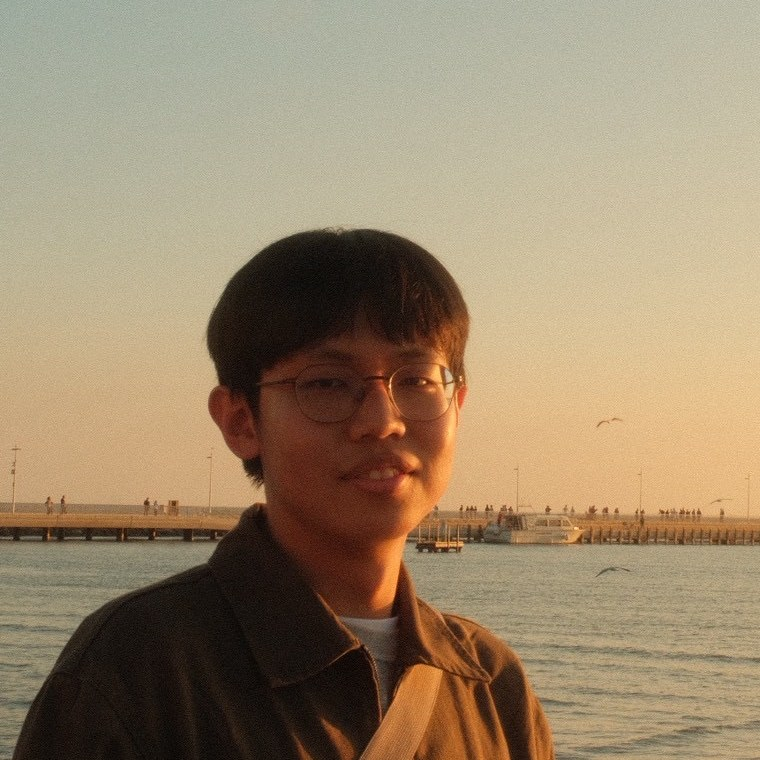
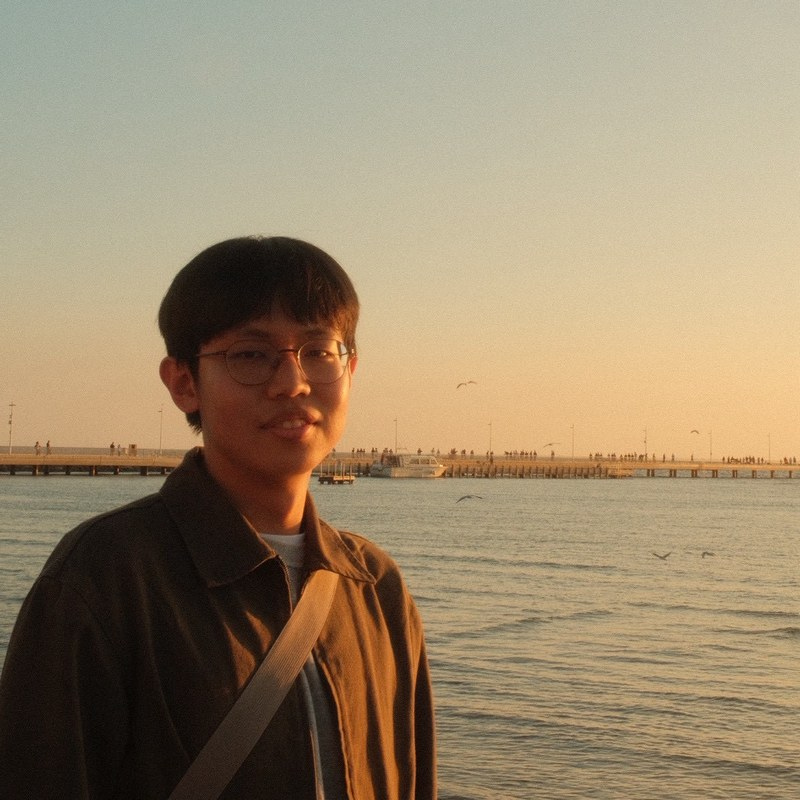
Home glass: visible edge refraction, no hover light; wider profile photo
- Fix: the photo layer inside each card was collapsed by a broader rule, so the lens never showed
- Wider bezel with smooth normals and full-resolution map; slight RGB fringe
- Remove the light that followed the pointer
- Profile photo cropped wider so more background shows

diff --git a/assets/js/main.js b/assets/js/main.js
@@ -120,7 +120,7 @@ document.querySelectorAll('[data-filter-group]').forEach((group) => {
     // bezel each pixel samples further inward along the surface normal, following a convex
     // squircle profile, so the photo is compressed and bent at the edges like thick glass.
     const makeMap = (w, h, radius, bezel) => {
-      const k = 0.5 // render the map at half resolution; the filter stretches it
+      const k = 1 // full-resolution map keeps the bent edge smooth
       const W = Math.max(2, Math.round(w * k)); const H = Math.max(2, Math.round(h * k))
       const c = document.createElement('canvas'); c.width = W; c.height = H
       const ctx = c.getContext('2d'); const img = ctx.createImageData(W, H); const d = img.data
@@ -129,6 +129,11 @@ document.querySelectorAll('[data-filter-group]').forEach((group) => {
         const qx = Math.abs(x - hx) - (hx - r); const qy = Math.abs(y - hy) - (hy - r)
         return Math.min(Math.max(qx, qy), 0) + Math.hypot(Math.max(qx, 0), Math.max(qy, 0)) - r
       }
+      const rn = Math.min(Math.max(r, bezel * 1.6), hx, hy) // rounder shape for the normals avoids creases along the diagonals
+      const sdfN = (x, y) => {
+        const qx = Math.abs(x - hx) - (hx - rn); const qy = Math.abs(y - hy) - (hy - rn)
+        return Math.min(Math.max(qx, qy), 0) + Math.hypot(Math.max(qx, 0), Math.max(qy, 0)) - rn
+      }
       for (let j = 0; j < H; j++) {
         for (let i = 0; i < W; i++) {
           const x = (i + 0.5) / k; const y = (j + 0.5) / k
@@ -136,10 +141,10 @@ document.querySelectorAll('[data-filter-group]').forEach((group) => {
           let dx = 0; let dy = 0
           if (dist > 0 && dist < bezel) {
             const e = 0.75
-            let nx = sdf(x - e, y) - sdf(x + e, y); let ny = sdf(x, y - e) - sdf(x, y + e) // inward normal
+            let nx = sdfN(x - e, y) - sdfN(x + e, y); let ny = sdfN(x, y - e) - sdfN(x, y + e) // inward normal (smoothed)
             const n = Math.hypot(nx, ny) || 1; nx /= n; ny /= n
             const t = 1 - dist / bezel // 0 where the flat middle starts, 1 at the rim
-            const mag = Math.pow(t, 1.6) // convex bezel: bends hardest at the rim, none in the flat middle
+            const mag = t * t // convex bezel: bends hardest at the rim, none in the flat middle
             dx = nx * mag; dy = ny * mag
           }
           const o = (j * W + i) * 4
@@ -168,15 +173,15 @@ document.querySelectorAll('[data-filter-group]').forEach((group) => {
     const build = ({ el, f }) => {
       const w = el.offsetWidth; const h = el.offsetHeight
       if (!w || !h) return
-      const bezel = Math.min(46, Math.min(w, h) * 0.16)
+      const bezel = Math.min(80, Math.min(w, h) * 0.18)
       const map = makeMap(w, h, 30, bezel)
-      const s = bezel * 2.2 // max shift in px is scale / 2
+      const s = bezel * 1.8 // max inward shift is scale / 2 (just under the bezel width)
       // Three passes with slightly different strengths give the red/green/blue fringe.
       f.innerHTML = `
         <feImage href="${map}" x="0" y="0" width="${w}" height="${h}" preserveAspectRatio="none" result="map"/>
         <feDisplacementMap in="SourceGraphic" in2="map" scale="${s}" xChannelSelector="R" yChannelSelector="G" result="dr"/>
-        <feDisplacementMap in="SourceGraphic" in2="map" scale="${s * 1.08}" xChannelSelector="R" yChannelSelector="G" result="dg"/>
-        <feDisplacementMap in="SourceGraphic" in2="map" scale="${s * 1.16}" xChannelSelector="R" yChannelSelector="G" result="db"/>
+        <feDisplacementMap in="SourceGraphic" in2="map" scale="${s * 1.04}" xChannelSelector="R" yChannelSelector="G" result="dg"/>
+        <feDisplacementMap in="SourceGraphic" in2="map" scale="${s * 1.08}" xChannelSelector="R" yChannelSelector="G" result="db"/>
         <feColorMatrix in="dr" type="matrix" values="1 0 0 0 0  0 0 0 0 0  0 0 0 0 0  0 0 0 1 0" result="r"/>
         <feColorMatrix in="dg" type="matrix" values="0 0 0 0 0  0 1 0 0 0  0 0 0 0 0  0 0 0 1 0" result="g"/>
         <feColorMatrix in="db" type="matrix" values="0 0 0 0 0  0 0 0 0 0  0 0 1 0 0  0 0 0 1 0" result="b"/>
@@ -203,14 +208,12 @@ document.querySelectorAll('[data-filter-group]').forEach((group) => {
     new ResizeObserver(rebuild).observe(panels[0].parentElement)
     rebuild()
 
-    // Specular light (and a slight tilt) follow the pointer.
+    // A slight tilt follows the pointer.
     if (window.matchMedia('(hover: hover) and (pointer: fine)').matches) {
       for (const { el } of setups) {
         el.addEventListener('pointermove', (e) => {
           const r = el.getBoundingClientRect()
           const x = (e.clientX - r.left) / r.width; const y = (e.clientY - r.top) / r.height
-          el.style.setProperty('--mx', `${(x * 100).toFixed(1)}%`)
-          el.style.setProperty('--my', `${(y * 100).toFixed(1)}%`)
           if (!reduceMotion) {
             el.style.setProperty('--rx', `${((x - 0.5) * 5).toFixed(2)}deg`)
             el.style.setProperty('--ry', `${((0.5 - y) * 5).toFixed(2)}deg`)

diff --git a/assets/css/main.css b/assets/css/main.css
@@ -377,14 +377,14 @@ main:focus { outline: none; }
   background-repeat: no-repeat;
   filter: var(--lg-filter, none) saturate(1.2);
 }
-/* Specular sheen that follows the pointer. */
+/* Fixed specular sheen across the top of the glass. */
 .hero .panel::before {
   content: ""; position: absolute; inset: 0; z-index: -1; pointer-events: none; border-radius: inherit;
   background:
-    radial-gradient(40% 35% at var(--mx) var(--my), rgba(255, 255, 255, .32), transparent 70%),
     linear-gradient(160deg, rgba(255, 255, 255, .14), transparent 35%);
 }
 .hero .panel > * { position: relative; z-index: 1; }
+.hero .panel > .lg-refract { position: absolute; inset: 0; z-index: -2; display: block; }
 .hero .panel :is(.lede, .meta, .alt-name) { color: rgba(255, 255, 255, .94); }
 .hero .lede, .hero .meta { font-weight: 500; }
 @media (prefers-reduced-motion: reduce) { .hero .panel { transform: none; } }
